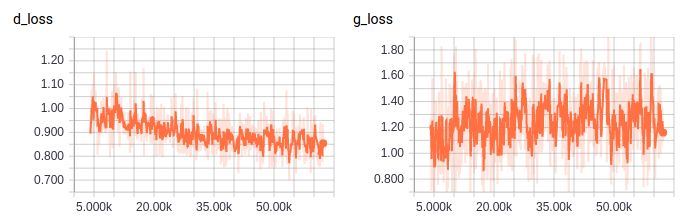
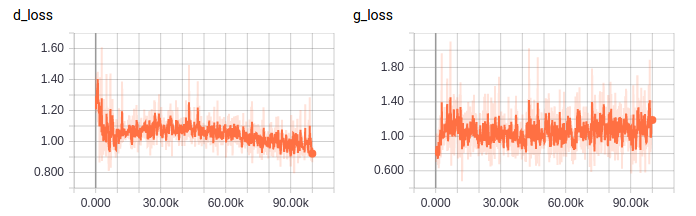
in place batch norm update. use optmimal training params

diff --git a/net.py b/net.py
@@ -5,12 +5,13 @@ from libs.ops import *
 
 class DCGANGenerator(object):
 
-  def __init__(self, hidden_dim=128, batch_size=64, hidden_activation=tf.nn.relu, output_activation=tf.nn.tanh, use_batch_norm=True, scope='generator', **kwargs):
+  def __init__(self, hidden_dim=128, batch_size=64, hidden_activation=tf.nn.relu, output_activation=tf.nn.tanh, use_batch_norm=True, z_distribution='uniform', scope='generator', **kwargs):
     self.hidden_dim = hidden_dim
     self.batch_size = batch_size
     self.hidden_activation = hidden_activation
     self.output_activation = output_activation
     self.use_batch_norm = use_batch_norm
+    self.z_distribution = z_distribution
     self.scope = scope
 
   def __call__(self, z, is_training=True, **kwargs):
@@ -33,7 +34,12 @@ class DCGANGenerator(object):
     return x
 
   def generate_noise(self):
-    return np.random.randn(self.batch_size, self.hidden_dim)
+    if self.z_distribution == 'normal':
+      return np.random.randn(self.batch_size, self.hidden_dim).astype(np.float32)
+    elif self.z_distribution == 'uniform' :
+      return np.random.uniform(-1, 1, (self.batch_size, self.hidden_dim)).astype(np.float32)
+    else:
+      raise NotImplementedError
 
 
 class SNDCGAN_Discrminator(object):

diff --git a/train.py b/train.py
@@ -53,10 +53,8 @@ g_vars = tf.get_collection(tf.GraphKeys.TRAINABLE_VARIABLES, scope='generator')
 optimizer = tf.train.AdamOptimizer(learning_rate=FLAGS.adam_alpha, beta1=FLAGS.adam_beta1, beta2=FLAGS.adam_beta2)
 d_gvs = optimizer.compute_gradients(d_loss, var_list=d_vars)
 g_gvs = optimizer.compute_gradients(g_loss, var_list=g_vars)
-update_ops = tf.get_collection(tf.GraphKeys.UPDATE_OPS)
 d_solver = optimizer.apply_gradients(d_gvs)
-with tf.control_dependencies(update_ops):
-  g_solver = optimizer.apply_gradients(g_gvs)
+g_solver = optimizer.apply_gradients(g_gvs)
 
 config = tf.ConfigProto()
 config.gpu_options.allow_growth = True

diff --git a/libs/ops.py b/libs/ops.py
@@ -104,7 +104,7 @@ def linear(input_, output_size, name="linear", spectral_normed=False, update_col
         return mul
 
 
-def batch_norm(input, is_training=True, momentum=0.9, epsilon=1e-5, in_place_update=False, name="batch_norm"):
+def batch_norm(input, is_training=True, momentum=0.9, epsilon=2e-5, in_place_update=True, name="batch_norm"):
   if in_place_update:
     return tf.contrib.layers.batch_norm(input,
                                         decay=momentum,

diff --git a/README.md b/README.md
@@ -51,8 +51,9 @@ For an example, see the file [test_sn_implementation.py](test_sn_implementation.
 # Generated image samples on Cifar10:
 ![](img/099999.png)
 # Inception score:
-At 100k iteration: Mean 7.24, std 0.05
-
+After using in place batch norm update and use the optimal training parameters
+from the paper, I was able to match their claimed Inception score at 100k iteration:
+**7.4055686** +/- 0.087728456
 The official github repostiory has an inception score of 7.41
 # Issues:
 - ~~GPU under-utilization: The original implementation of the author in chainer
